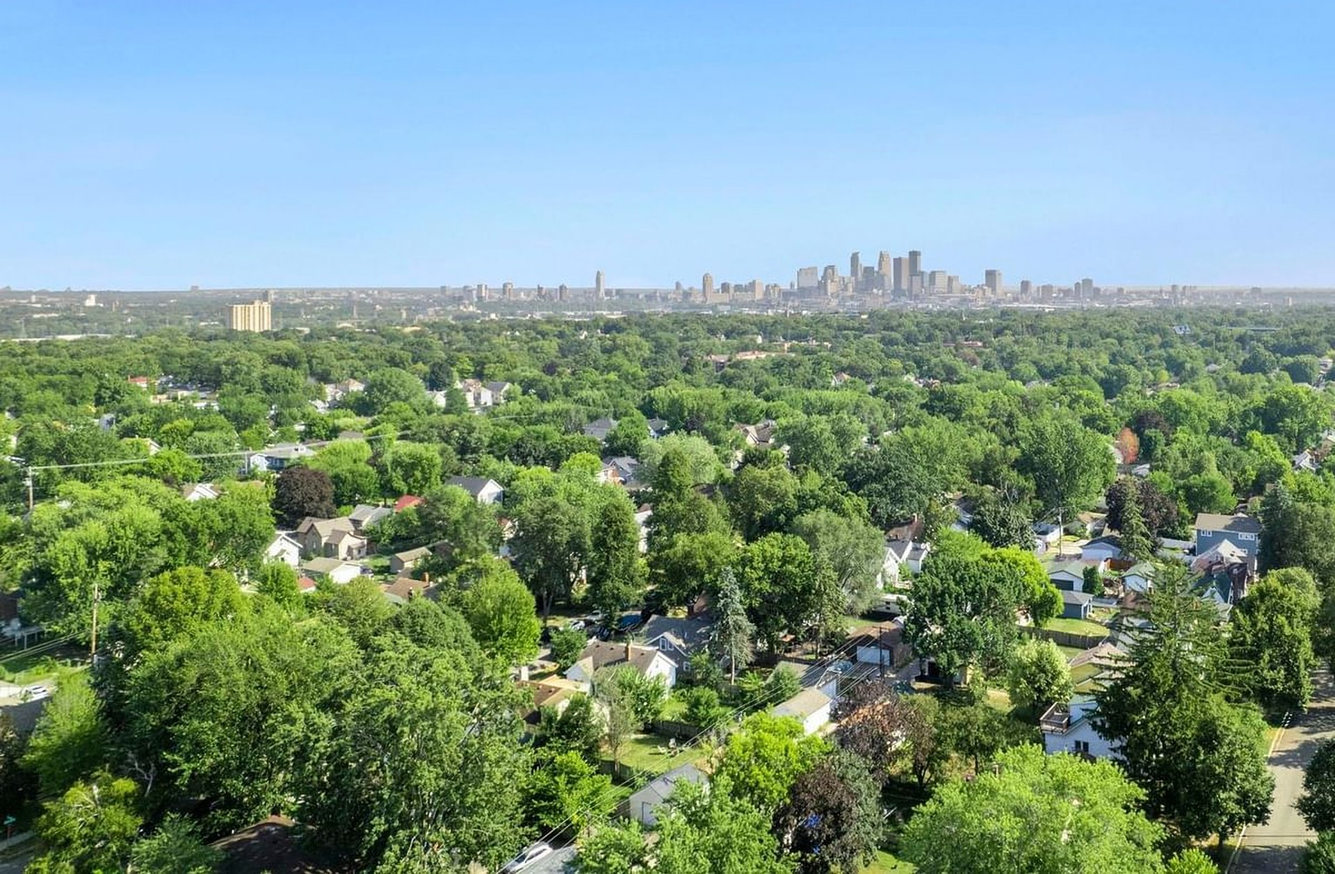
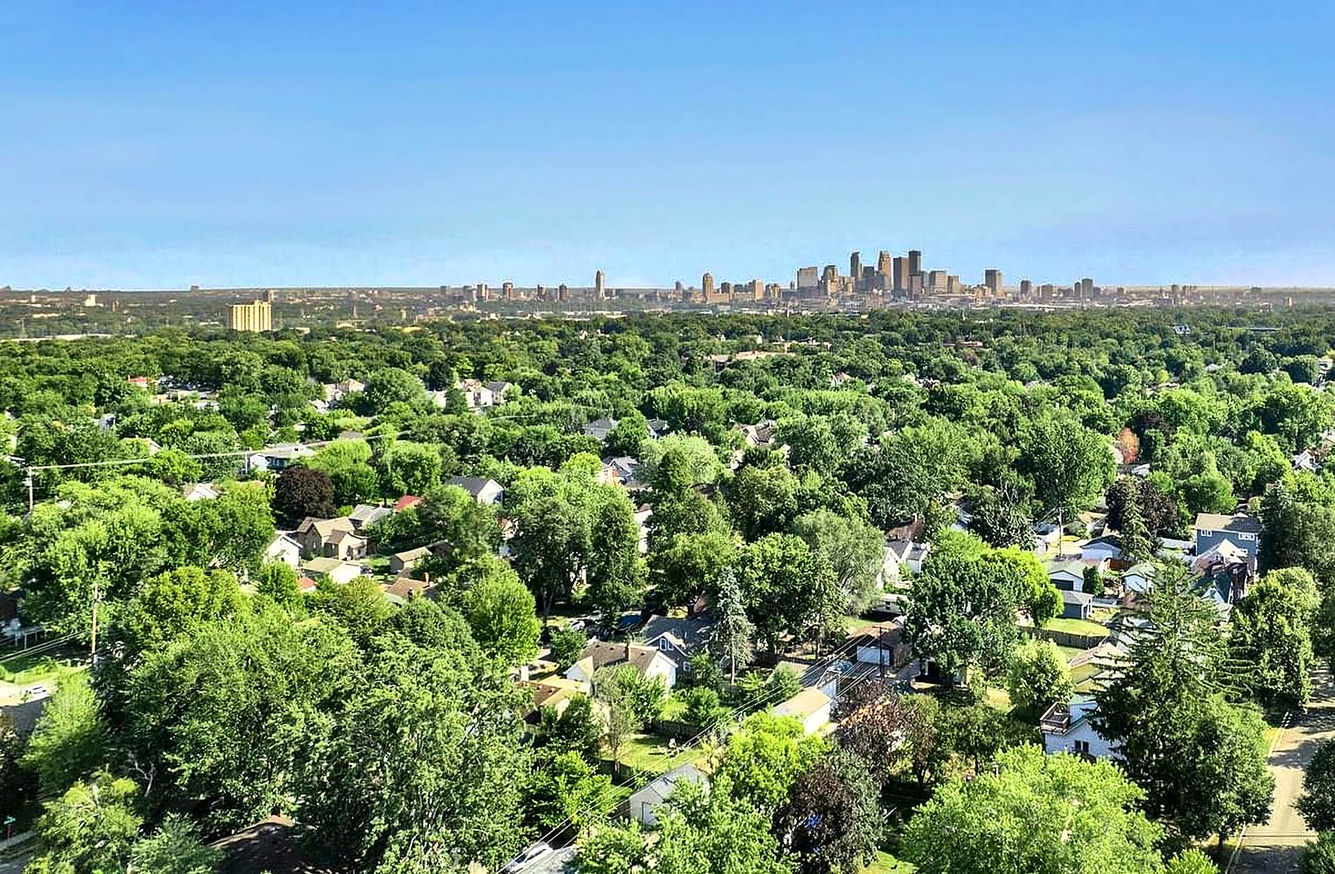
Home page photo: haze removed and sharpened; clearer titles for two posts Google shows but few click
- Hero photo: haze removed from the land (sky kept smooth), light local contrast and sharpening; the page's own
  color filter is dropped (the photo carries it now) and the left/bottom shading is a bit darker so the text over
  the sharper trees stays readable.
- Burnsville Center post: title and description now name Enson Market (people search for the Asian market's
  opening date).
- Comparative market analysis post: plain "What is a CMA?" title and a real description instead of a cut-off excerpt.

Claude-Session: https://claude.ai/code/session_018NwgMocKbszJzV4w1RX1qK

diff --git a/public/hero/CREDITS.md b/public/hero/CREDITS.md
@@ -15,6 +15,8 @@
 - What: an aerial from the team's own listing MLS 7109462 (photo 23 of the listing): Minneapolis neighborhoods out to
   the downtown skyline. Jason chose it Nov 12, 2026 from mockups (it replaced the Lakeville twilight photo, MLS 7115021,
   used Nov 11 only).
+- Processing (Nov 12, 2026, at Jason's request): enlarged 2x (EDSR), haze removed (dark-channel dehaze on the land only,
+  sky kept smooth), light local contrast and sharpening. Source script in the session notes, not in the repo.
 - Made from the MLS copy (1600 px): enlarged 2x with the EDSR super-resolution model (OpenCV dnn_superres), lightly
   sharpened, the top of the sky trimmed; sizes 640-2560 px.
 - To do (Jason): confirm with the listing photographer that the team may use it as the website's main image, and ask

diff --git a/src/content/blog/what-is-a-comparative-market-analysis-and-how-can-it-help-you-sell-your-home.md b/src/content/blog/what-is-a-comparative-market-analysis-and-how-can-it-help-you-sell-your-home.md
@@ -1,6 +1,6 @@
 ---
-title: "What Is A Comparative Market Analysis And How Can It Help You Sell Your Home?"
-description: "When you're trying to sell your home, you have to be extra mindful about how you price it. Whether done intentionally or not, overpricing your home is a…"
+title: "What Is a CMA? How a Comparative Market Analysis Prices Your Home"
+description: "A comparative market analysis (CMA) prices your home from recent nearby sales. What goes into one, how agents use it, and why it keeps you from overpricing when you sell."
 path: "2022/10/27/what-is-a-comparative-market-analysis-and-how-can-it-help-you-sell-your-home"
 date: 2018-08-02
 updated: 2022-10-27

diff --git a/src/content/blog/burnsville-center-is-coming-back-its-most-hyped-tenant-still-isnt-open.md b/src/content/blog/burnsville-center-is-coming-back-its-most-hyped-tenant-still-isnt-open.md
@@ -1,6 +1,6 @@
 ---
-title: "Burnsville Center Food Hall Opening: Delays and What's Open"
-description: "Burnsville Center food hall opening remains delayed as nearby restaurants welcome diners. Explore Ate Ate Ate's timeline and what's already open."
+title: "Burnsville Center Food Hall & Enson Market: Opening Date Status"
+description: "Ate Ate Ate and Enson Market, the Asian supermarket at Burnsville Center: every opening date promised since 2023, where things stood in the latest reporting, and what's already open at the mall."
 path: "burnsville-center-is-coming-back-its-most-hyped-tenant-still-isnt-open"
 date: 2026-09-17
 author: "Huerkamp Home Group"
